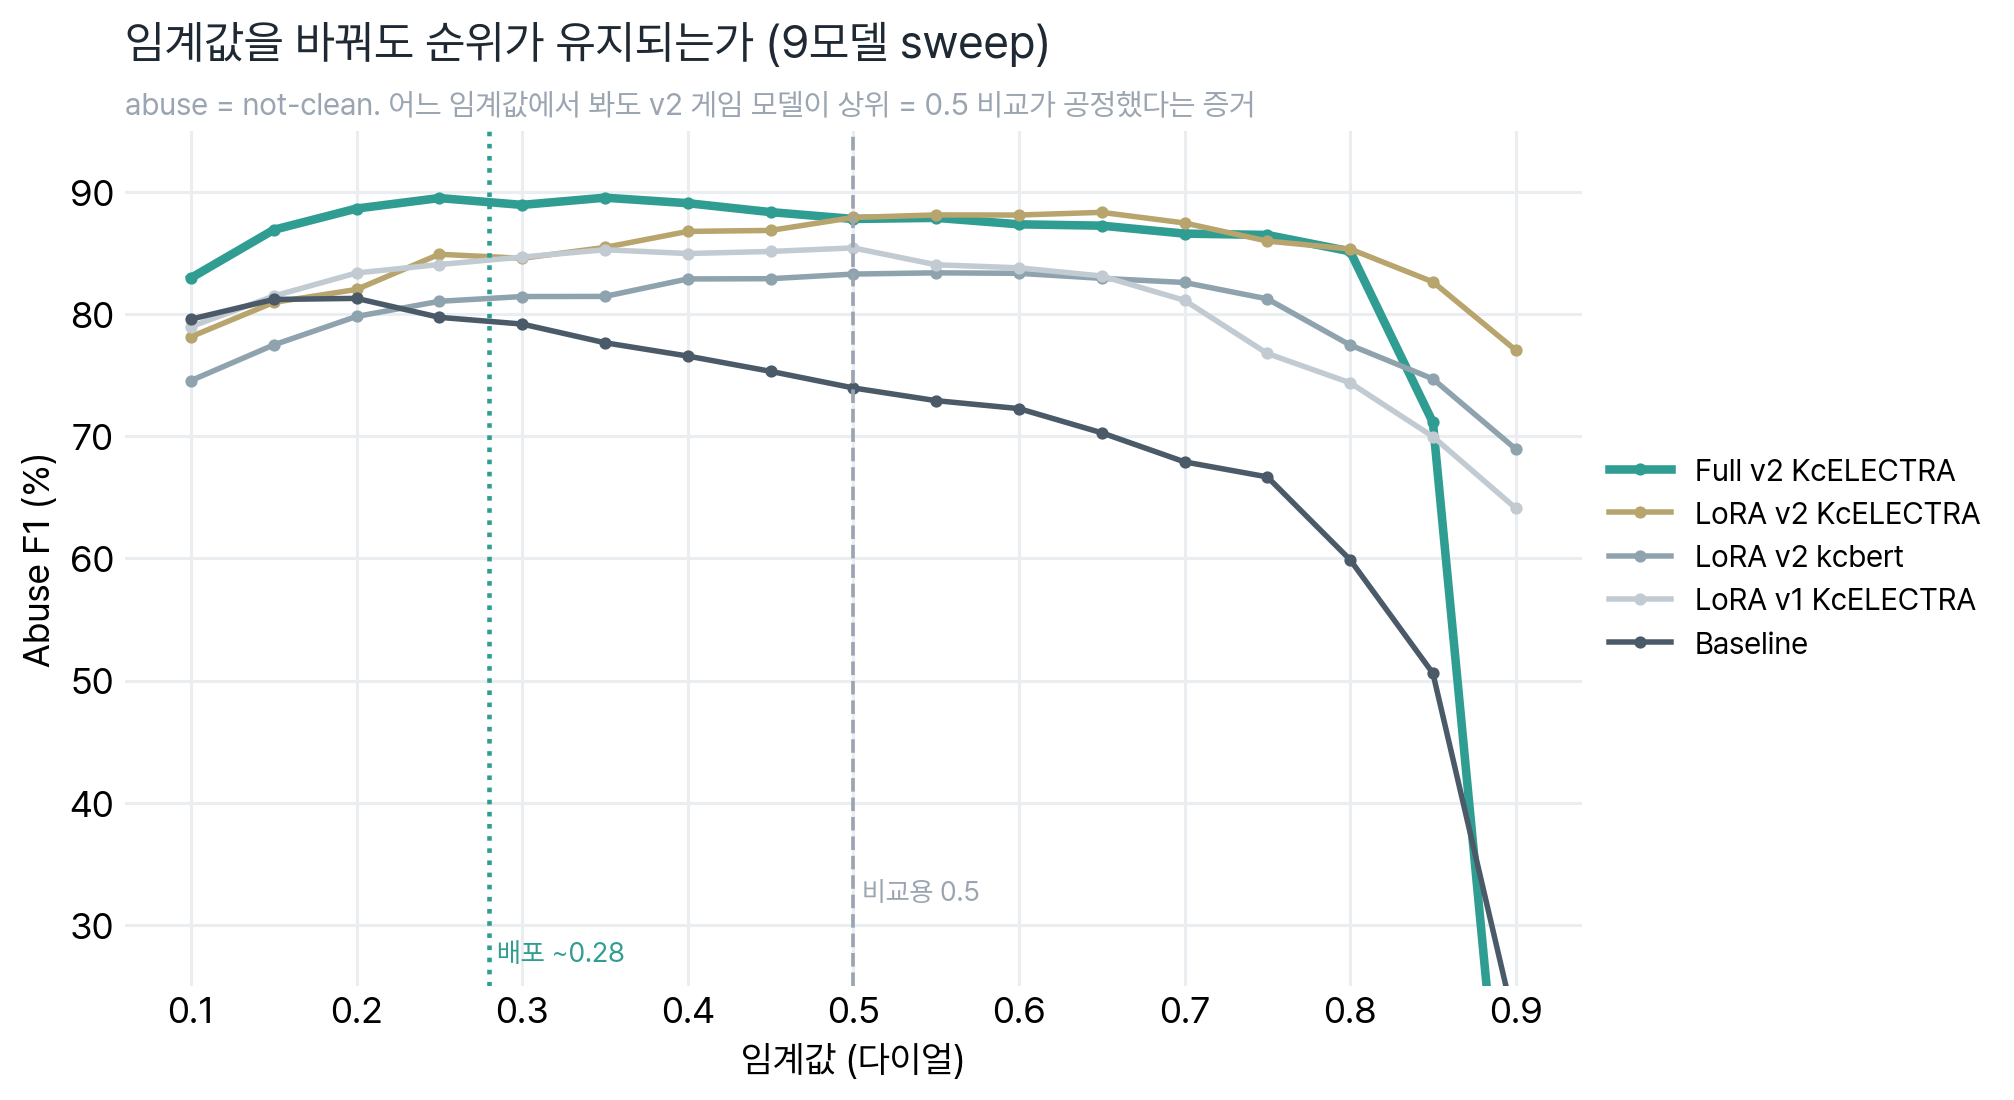
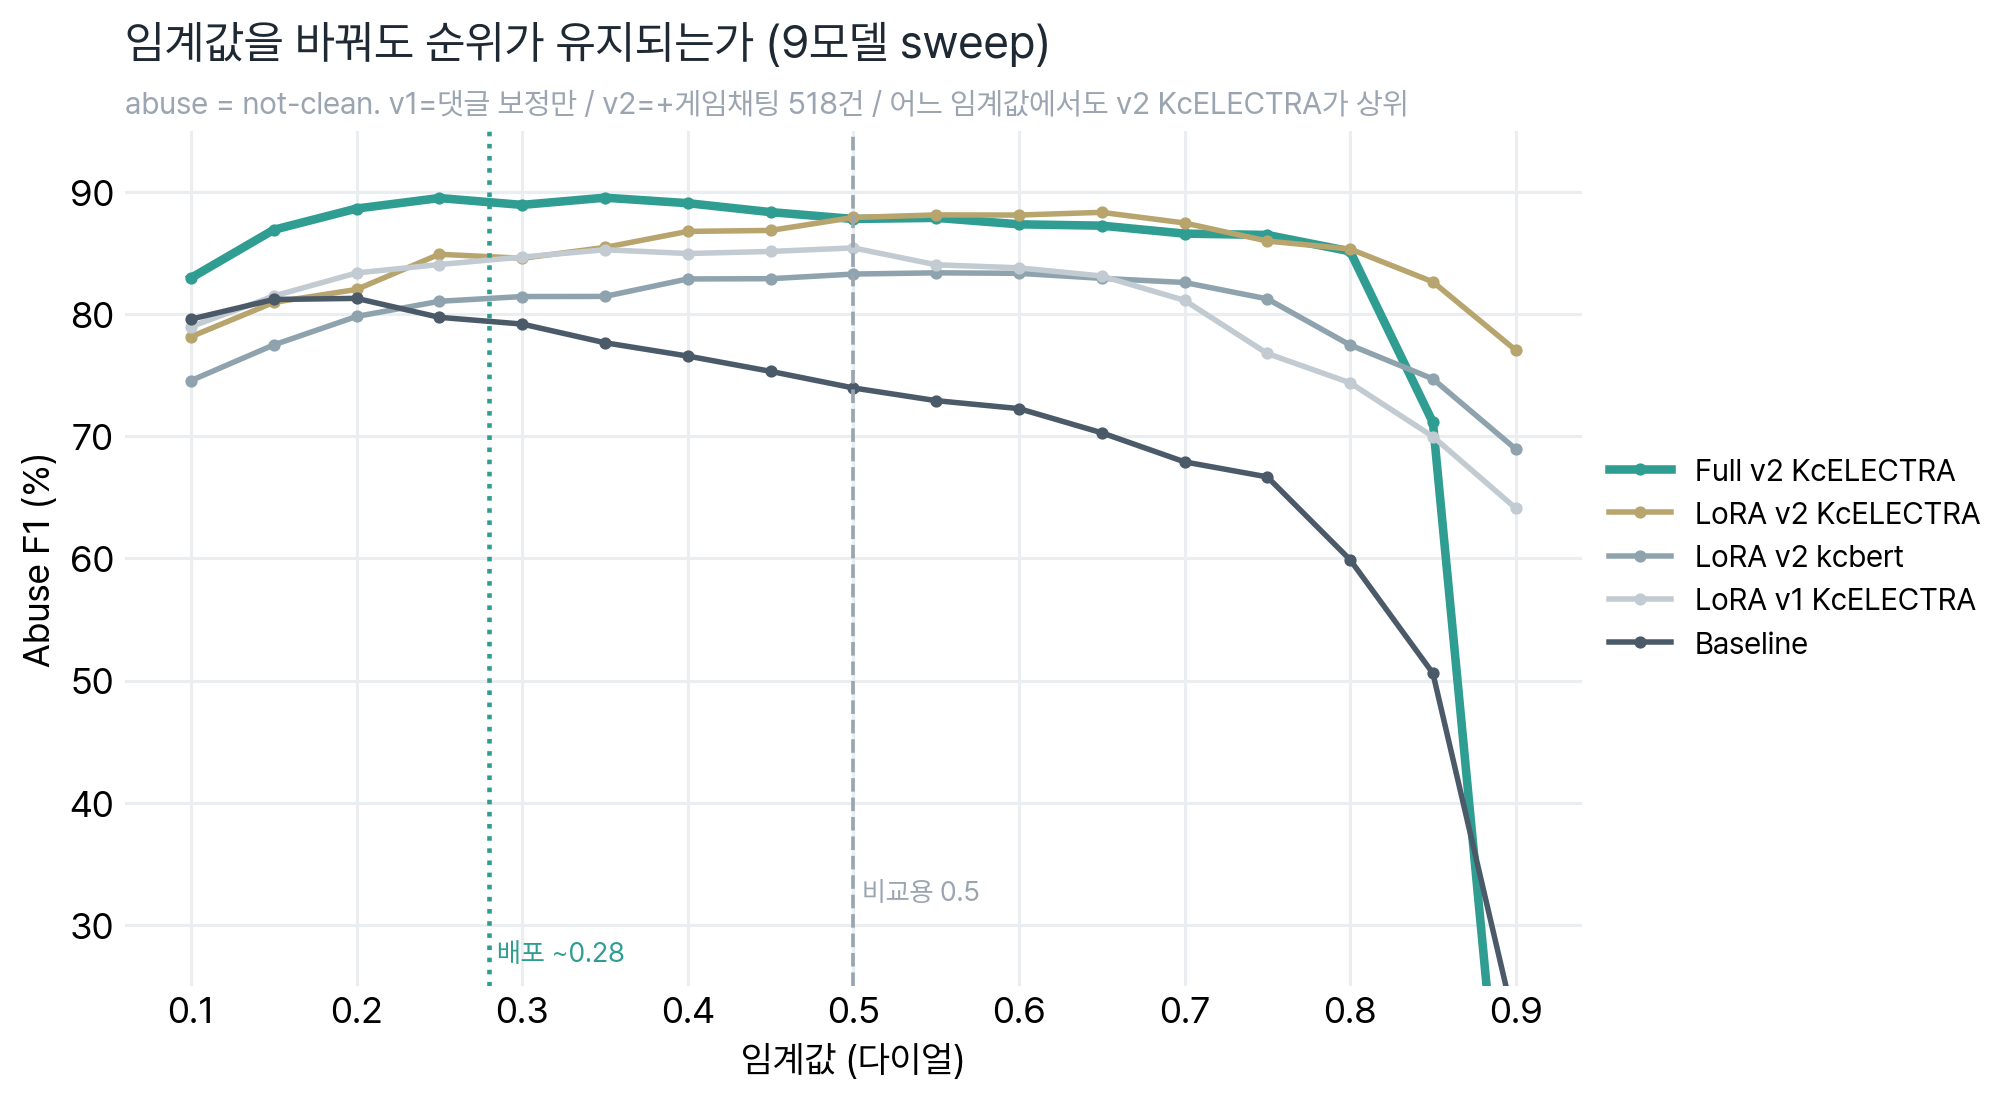
[AI] fix: 6단계 threshold robustness 차트에 v1/v2 설명 추가

Changed region(s): [[0.1847, 0.0618, 0.6773, 0.1236]]

diff --git a/6_Model_Comparison/threshold_robustness.py b/6_Model_Comparison/threshold_robustness.py
@@ -93,7 +93,7 @@ for s in ax.spines.values(): s.set_visible(False)
 ax.tick_params(length=0)
 ax.legend(loc="center left", bbox_to_anchor=(1.0, 0.5), frameon=False, fontsize=10)
 ax.set_title("임계값을 바꿔도 순위가 유지되는가 (9모델 sweep)", loc="left", pad=24, fontsize=15, fontweight="bold", color=INK)
-ax.text(0, 1.02, "abuse = not-clean. 어느 임계값에서 봐도 v2 게임 모델이 상위 = 0.5 비교가 공정했다는 증거",
+ax.text(0, 1.02, "abuse = not-clean. v1=댓글 보정만 / v2=+게임채팅 518건 / 어느 임계값에서도 v2 KcELECTRA가 상위",
         transform=ax.transAxes, fontsize=10, color="#9AA5B1")
 fig.savefig("results/threshold_robustness_ko.png", dpi=220, facecolor="white", bbox_inches="tight"); plt.close(fig)
 print("\nsaved results/threshold_robustness_ko.png + threshold_robustness_f1.csv")
